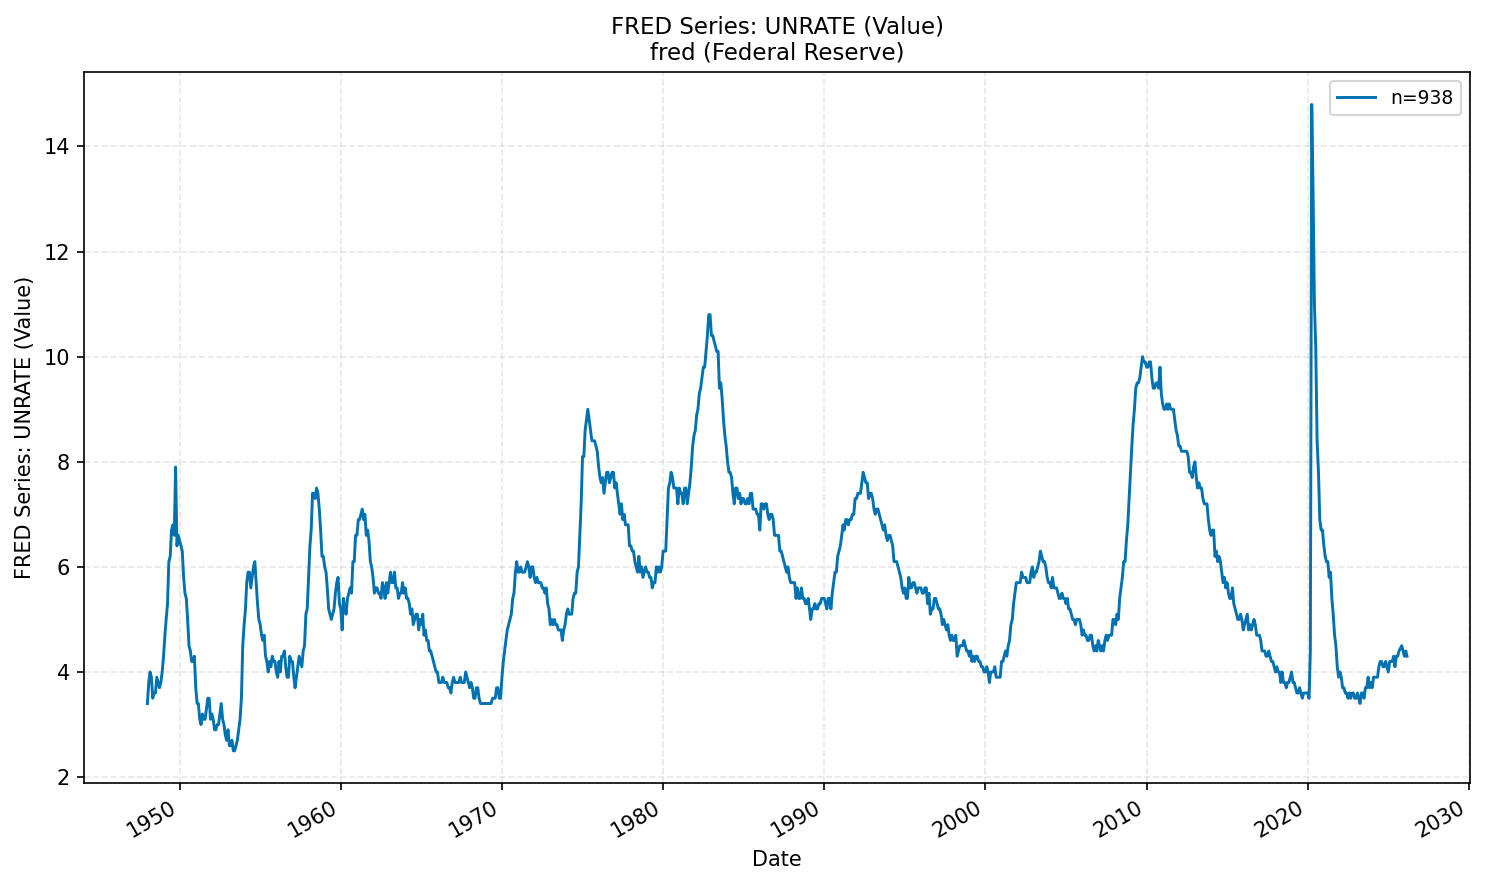
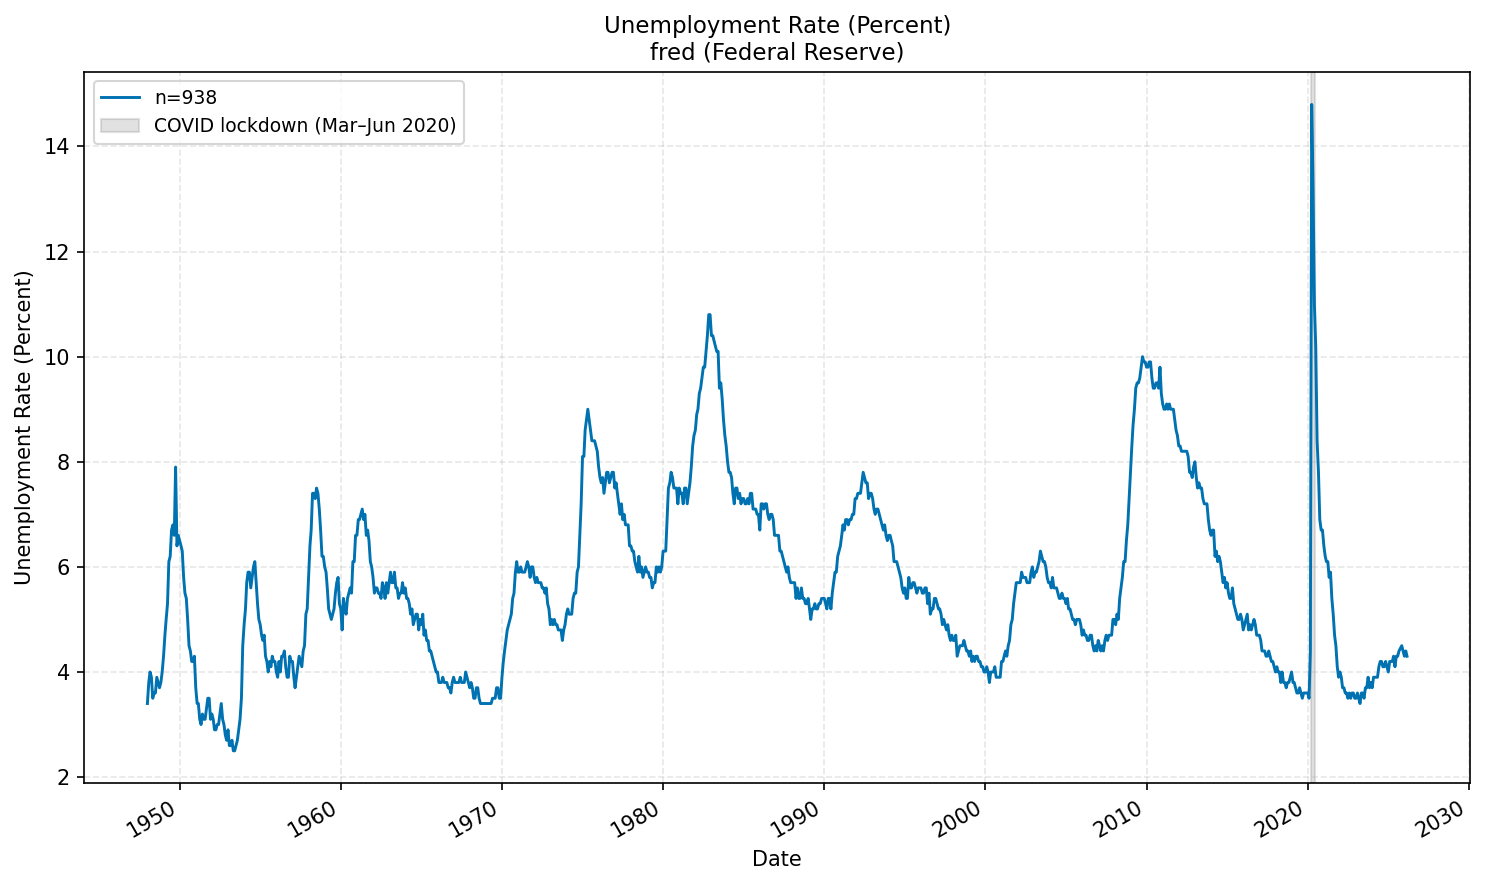
examples: shade COVID-19 lockdown on UNRATE figure
Mirror of jpazvd.lab-config viz update. The plot_fred_series helper
now overlays a grey axvspan for the strict US COVID-19 lockdown
window (2020-03-11 → 2020-06-15) so the unemployment spike is
visually attributable to that period. Replaces the prior figure.

diff --git a/examples/mcp-smoke-test/mcp-figures.py b/examples/mcp-smoke-test/mcp-figures.py
@@ -289,12 +289,19 @@ def plot_fred_series(label: str, indicator: str, series: list[tuple[str, float]]
     values = [v for _, v in series]
 
     fig, ax = plt.subplots(figsize=(10, 6), dpi=150)
-    ax.plot(dates, values, linewidth=1.4, color="#0072B2")
+    ax.plot(dates, values, linewidth=1.4, color="#0072B2", label=f"n={len(series)}")
+    # Shade the strict US COVID-19 lockdown window: WHO pandemic declaration
+    # (2020-03-11) through the first wave of state reopenings by mid-June 2020.
+    # Drawn before legend/grid so the band sits behind the line.
+    covid_start = _dt(2020, 3, 11)
+    covid_end = _dt(2020, 6, 15)
+    if dates and dates[0] <= covid_end and dates[-1] >= covid_start:
+        ax.axvspan(covid_start, covid_end, color="#888888", alpha=0.25, label="COVID lockdown (Mar–Jun 2020)")
     ax.set_xlabel("Date")
     ax.set_ylabel(indicator)
     ax.set_title(f"{indicator}\n{label}", fontsize=11)
     ax.grid(True, alpha=0.3, linestyle="--")
-    ax.legend([f"n={len(series)}"], loc="best", fontsize=9)
+    ax.legend(loc="best", fontsize=9)
     fig.autofmt_xdate()
     fig.tight_layout()
     fig.savefig(out_path, bbox_inches="tight")
